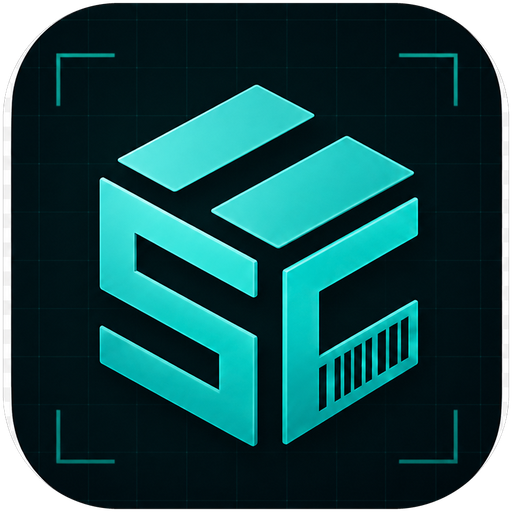
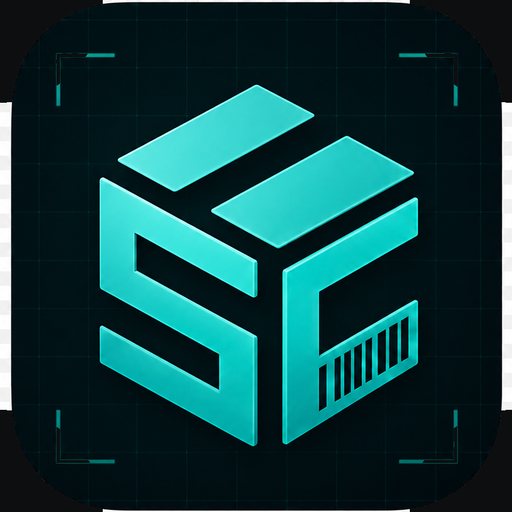
Add files via upload

diff --git a/sw.js b/sw.js
@@ -3,7 +3,7 @@
 // can open even with no internet connection. Live data (Firestore) still
 // needs a connection to sync — this only makes the app itself load offline.
 
-const CACHE_NAME = "sparecube-shell-v2";
+const CACHE_NAME = "sparecube-shell-v3";
 
 const APP_SHELL = [
   "./",